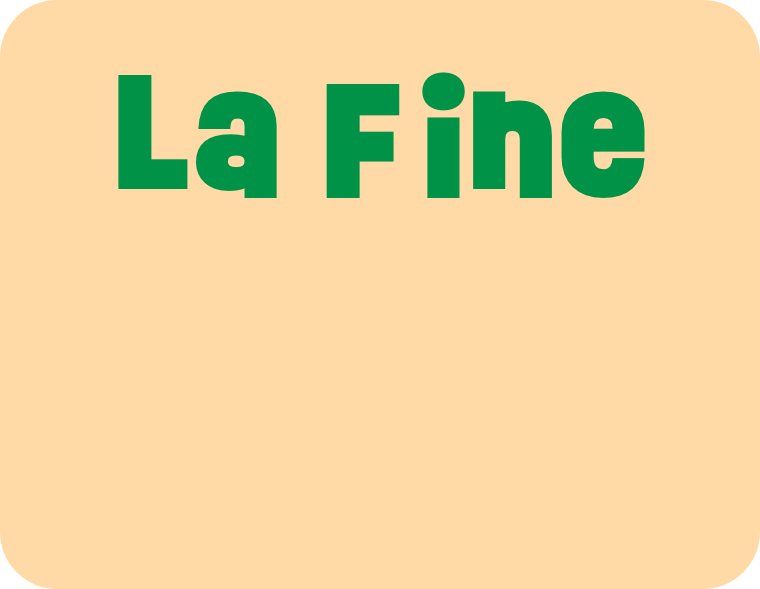
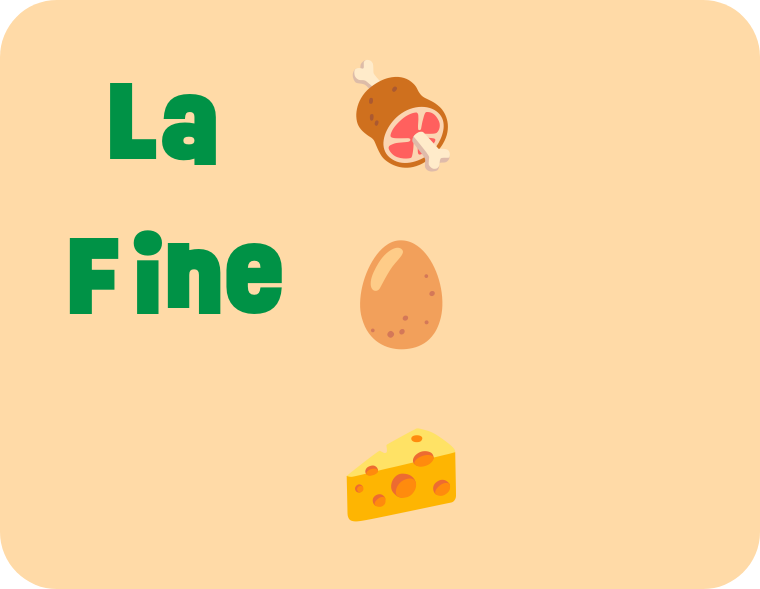
Recreated the gameover screen, now it fits all numbers, however still dependent on the fonts to set exact location of labels

diff --git a/src/main/java/edu/pacific/comp55/starter/GameOver.java b/src/main/java/edu/pacific/comp55/starter/GameOver.java
@@ -16,7 +16,7 @@ import acm.graphics.*;
 //comment
 class GameOver extends GraphicsPane{
 	public static final int PROGRAM_WIDTH = 1920/2, PROGRAM_HEIGHT =1080/2, CRUST_SIZE = 80;
-	public static final String FONT = "Arial-Bold-70";
+	public static final String FONT = "Arial-Bold-50";
 	
 	GImage backGround = new GImage("src/main/resources/backgroundMainMenu.png");
 	GImage blankPizza  = new GImage("src/main/resources/Pizzablank.png",960/2,100/2);
@@ -30,10 +30,10 @@ class GameOver extends GraphicsPane{
 	GImage cheese = new GImage("src/main/resources/cheese.png",495/2,380/2);
 	GImage egg = new GImage("src/main/resources/egg.png",725/2,380/2);
 	private int baconCount, cheeseCount, eggCount, scoreCount, flick;
-	GLabel baconC = new GLabel("" + baconCount,172/2, 470/2);
-	GLabel cheeseC = new GLabel("" + cheeseCount, 407/2,470/2);
-	GLabel eggC = new GLabel("" + eggCount, 627/2,470/2);
-	GLabel totalScore = new GLabel("" + scoreCount, 407/2,648/2);
+	GLabel baconC; 
+	GLabel cheeseC;  
+	GLabel eggC;
+	GLabel totalScore;
 	private MainApplication Mapp;
 	MainMenu menu; 
 	TimerMode timerModeGameOver;
@@ -44,7 +44,7 @@ class GameOver extends GraphicsPane{
 	
 	public GameOver() {}
 	
-	public GameOver(Mode mode, MainApplication a, int bacon, int cheese,int eggs) {
+	public GameOver(Mode mode, MainApplication a, int bacon, int cheese, int eggs) {
 //		try {
 //		Noto = Font.createFont(Font.TRUETYPE_FONT, new File("NotoColorEmoji-Regular.ttf")).deriveFont(30f);
 //		GraphicsEnvironment ge = GraphicsEnvironment.getLocalGraphicsEnvironment();
@@ -62,15 +62,17 @@ class GameOver extends GraphicsPane{
 		}
 		Mapp = a;
 		baconCount = bacon;
-		baconC = new GLabel("" + baconCount, 172/2, 470/2);
-		cheeseCount = cheese;
-		cheeseC = new GLabel("" + cheeseCount, 407/2,470/2);
+		baconC = new GLabel(String.valueOf(baconCount),600/2, 260/2);
 		eggCount = eggs;
-		eggC = new GLabel("" + eggCount, 627/2,470/2);
-
-		
-		scoreCount = baconCount + cheeseCount + eggCount;
-		totalScore = new GLabel("" + scoreCount, 407/2,648/2);
+		eggC = new GLabel(String.valueOf(eggCount),600/2, 430/2);
+		cheeseCount = cheese;
+		cheeseC = new GLabel(String.valueOf(cheeseCount), 600/2, 610/2);
+		totalScore = new GLabel(String.valueOf(mode.scoreCounter));
+		if(mode.scoreCounter < 100) {
+			totalScore.setLocation(250/2, 580/2);
+		} else {
+			totalScore.setLocation(150/2, 580/2);
+		}
 		drawGameOver();
 	}
 	
@@ -85,7 +87,6 @@ class GameOver extends GraphicsPane{
 	}
 	
 	public void drawGameOver() {
-		//TODO Draws the game over menu, would also call the drawPizza() function.
 		backGround.scale(.5);
 		cuttingBoard.scale(.5);
 		quit.scale(.5);
@@ -94,18 +95,14 @@ class GameOver extends GraphicsPane{
 		baconC.setFont(FONT);
 		cheeseC.setFont(FONT);
 		eggC.setFont(FONT);
-		totalScore.setFont("Arial-Bold-100");
+		totalScore.setFont(FONT);
 		totalScore.setColor(Color.red);
-		if(scoreCount > 9) {
-			totalScore.setLocation(355/2,648/2);
-		}
 		egg.scale(.5);
 		bacon.scale(.5);
 		cheese.scale(.5);
 	}
 	
 	public void drawPizza() {
-		//TODO Uses the variables to draw a pizza with the toppings.
 		Mapp.add(blankPizza);
 		addToppings();
 	}
@@ -176,7 +173,6 @@ class GameOver extends GraphicsPane{
 	
 	@Override
 	public void showContents() {
-		// TODO Auto-generated method stub
 		Mapp.add(backGround);
 		Mapp.add(cuttingBoard);
 		Mapp.add(quit);
@@ -185,9 +181,6 @@ class GameOver extends GraphicsPane{
 		Mapp.add(cheeseC);
 		Mapp.add(eggC);
 		Mapp.add(totalScore);
-		Mapp.add(bacon);
-		Mapp.add(cheese);
-		Mapp.add(egg);
 		drawPizza();
 		
 	}
@@ -231,20 +224,7 @@ class GameOver extends GraphicsPane{
 		else if (flick == 2) {
 			timerModeGameOver.returnToMenu();
 		}
-	}
-	
-//	public void run() {
-//		drawGameOver();
-//		addMouseListeners();
-//	}
-	
-//	public void init() {
-//		//setSize(PROGRAM_WIDTH,PROGRAM_HEIGHT);
-//	}
-	
-//	public static void main(String[] args) {
-		//new GameOver().start();
-		
+	}	
 		
 	}
 

diff --git a/src/main/java/edu/pacific/comp55/starter/Mode.java b/src/main/java/edu/pacific/comp55/starter/Mode.java
@@ -65,7 +65,7 @@ public class Mode extends GraphicsPane implements ActionListener{
 		y2 =  x2 * lineSlope + lineB;
 		comboLine = new GLine(x1, y1, x2, y2);
 		comboLine.setLineWidth(50);
-		//comboLine.setVisible(false); //VISIBILITY OF THE LINE
+		comboLine.setVisible(false); //VISIBILITY OF THE LINE
 		Mapp.add(comboLine);
 		comboLine.sendToBack();
 		
